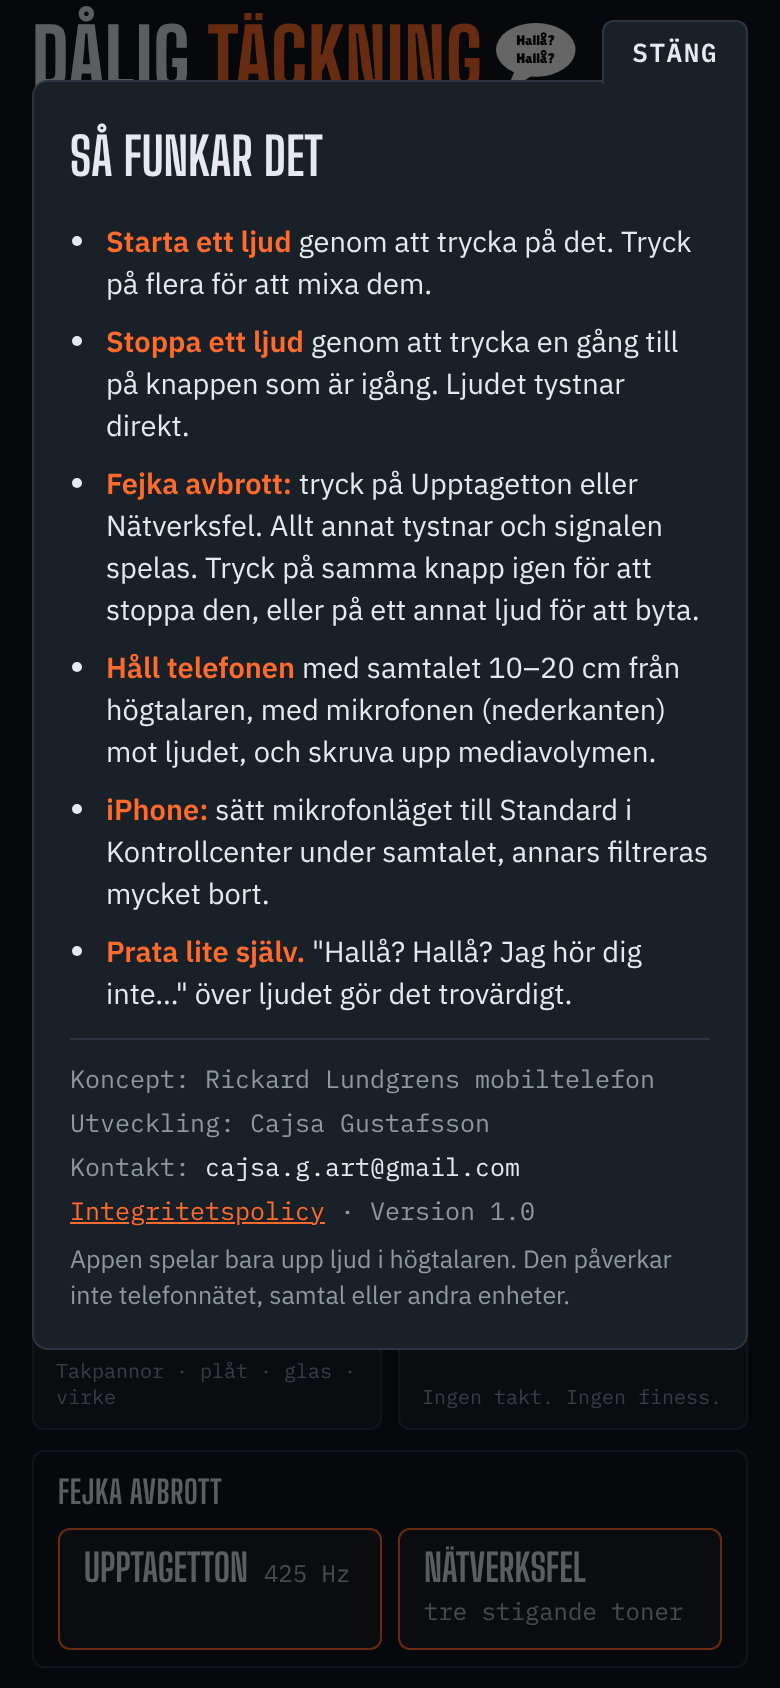
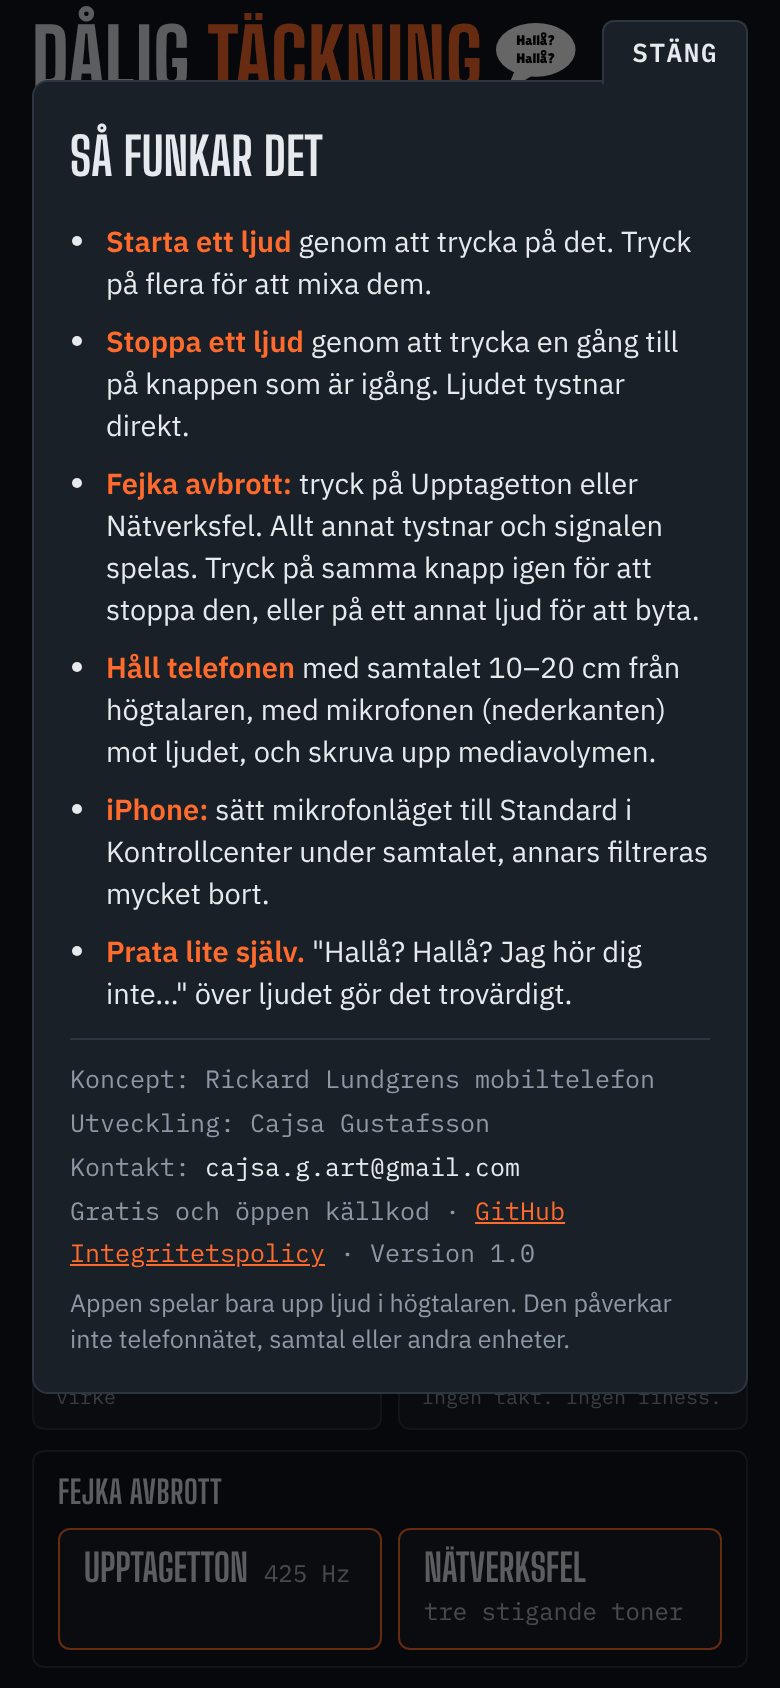
Gratis och öppen källkod: MIT-licens, butikstexter och Om-rutan
Claude-Session: https://claude.ai/code/session_01AwVcDu5zv7prsN5VKHxPky

Changed region(s): [[0.0923, 0.7085, 0.8615, 0.8318]]

diff --git a/index.html b/index.html
@@ -231,6 +231,7 @@ h1{font-size:clamp(56px,18vw,130px);line-height:.85;white-space:nowrap;margin:0}
       <div><span data-i18n="concept">Koncept</span>: <span data-i18n="conceptBy">Rickard Lundgrens mobiltelefon</span></div>
       <div><span data-i18n="dev">Utveckling</span>: Cajsa Gustafsson</div>
       <div><span data-i18n="contact">Kontakt</span>: <span class="sel">cajsa.g.art@gmail.com</span></div>
+      <div><span data-i18n="free">Gratis och öppen källkod</span> · <a href="https://github.com/cajsag73/storsandaren" target="_blank" rel="noopener">GitHub</a></div>
       <div><a href="https://cajsag73.github.io/storsandaren/integritet.html" target="_blank" rel="noopener" data-i18n="privacy">Integritetspolicy</a> · <span data-i18n="version">Version</span> 1.0</div>
       <div class="disclaimer" data-i18n="disclaimer">Appen spelar bara upp ljud i högtalaren. Den påverkar inte telefonnätet, samtal eller andra enheter.</div>
     </div>
@@ -552,9 +553,9 @@ function dropCall(mode,btn){
 }
 
 const I18N={
- sv:{title:'Dålig täckning',eyebrow:'Soundboard för samtal du inte vill ha',t1:'Dålig ',t2:'täckning',vol:'Volym',drop:'Fejka avbrott',busy:'Upptagetton',sit:'Nätverksfel',sitS:'tre stigande toner',bubble1:'Hallå?',bubble2:'Hallå?',about:'Om',aboutTitle:'Så funkar det',close:'Stäng',concept:'Koncept',conceptBy:'Rickard Lundgrens mobiltelefon',dev:'Utveckling',contact:'Kontakt',privacy:'Integritetspolicy',version:'Version',disclaimer:'Appen spelar bara upp ljud i högtalaren. Den påverkar inte telefonnätet, samtal eller andra enheter.',
+ sv:{title:'Dålig täckning',eyebrow:'Soundboard för samtal du inte vill ha',t1:'Dålig ',t2:'täckning',vol:'Volym',drop:'Fejka avbrott',busy:'Upptagetton',sit:'Nätverksfel',sitS:'tre stigande toner',bubble1:'Hallå?',bubble2:'Hallå?',about:'Om',aboutTitle:'Så funkar det',close:'Stäng',concept:'Koncept',conceptBy:'Rickard Lundgrens mobiltelefon',dev:'Utveckling',contact:'Kontakt',privacy:'Integritetspolicy',free:'Gratis och öppen källkod',version:'Version',disclaimer:'Appen spelar bara upp ljud i högtalaren. Den påverkar inte telefonnätet, samtal eller andra enheter.',
    silent:'Tyst',pick:'Välj ett eller flera ljud',onair:'Sänder nu',mixing:n=>`Mixar ${n} ljud`,dropping:'Avbrott',breaking:'Samtalet bryts…',ch:'KANAL',live:'SÄNDER'},
- en:{title:'Bad Line',eyebrow:"Soundboard for calls you don't want",t1:'Bad ',t2:'Line',vol:'Volume',drop:'Fake a dropped call',busy:'Busy tone',sit:'Network error',sitS:'three rising tones',bubble1:'Hello?',bubble2:'Hello?',about:'About',aboutTitle:'How it works',close:'Close',concept:'Concept',conceptBy:"Rickard Lundgren's mobile phone",dev:'Development',contact:'Contact',privacy:'Privacy policy',version:'Version',disclaimer:'The app only plays sound through the speaker. It does not affect the phone network, calls or other devices.',
+ en:{title:'Bad Line',eyebrow:"Soundboard for calls you don't want",t1:'Bad ',t2:'Line',vol:'Volume',drop:'Fake a dropped call',busy:'Busy tone',sit:'Network error',sitS:'three rising tones',bubble1:'Hello?',bubble2:'Hello?',about:'About',aboutTitle:'How it works',close:'Close',concept:'Concept',conceptBy:"Rickard Lundgren's mobile phone",dev:'Development',contact:'Contact',privacy:'Privacy policy',free:'Free and open source',version:'Version',disclaimer:'The app only plays sound through the speaker. It does not affect the phone network, calls or other devices.',
    silent:'Silent',pick:'Pick one or more sounds',onair:'On air',mixing:n=>`Mixing ${n} sounds`,dropping:'Dropping',breaking:'Call breaking up…',ch:'CHANNEL',live:'ON AIR'}
 };
 const SCENE_EN={"tackning": {"name": "Choppy line", "what": "The line breaks up into robot mush, digital bursts and sudden silence.", "spec": "Voice codec in 20 ms frames"}, "tag": {"name": "Train crash", "what": "A train crashes at full speed. Cars crumple, sheet metal folds and steel tears apart.", "spec": "4,000 tonnes of metal at 120 km/h"}, "rymd": {"name": "Space station", "what": "Digital interference and a shredded alien voice talking in the background.", "spec": "TDMA buzz 217 Hz · 3-bit voice"}, "metall": {"name": "Death metal", "what": "Violent attacks of distortion, bass blasts and screams that come and go.", "spec": "Tempo: none · Mercy: none"}, "storm": {"name": "Hailstorm", "what": "Things get smashed and torn apart at full force.", "spec": "Roof tiles · sheet metal · glass · timber"}, "bygg": {"name": "Construction site", "what": "Jackhammer, power drill, violent hammer blows and metal grinding on metal. Completely irregular.", "spec": "No rhythm. No finesse."}};

diff --git a/butik/BUTIKSTEXTER.md b/butik/BUTIKSTEXTER.md
@@ -11,7 +11,7 @@ Dålig täckning
 
 **Kort beskrivning** (max 80 tecken)
 ```
-Spela störningsljud under samtal – hackig linje, tågkrasch, hagel och mer.
+Gratis störningsljud under samtal – hackig linje, tågkrasch, hagel och mer.
 ```
 
 **Fullständig beskrivning** (max 4000 tecken)
@@ -32,7 +32,10 @@ Fejka avbrott: avsluta med upptagetton eller nätverksfelston, och lägg på.
 
 Så använder du den: håll telefonen med samtalet nära högtalaren på den enhet där Dålig täckning spelar, eller sätt samtalet på högtalare. Ljudet är förstärkt för att höras tydligt i en annan telefon.
 
+• Helt gratis
+• Öppen källkod: https://github.com/cajsag73/storsandaren
 • Ingen reklam
+• Inga köp i appen
 • Inget konto
 • Samlar inte in några uppgifter
 • Fungerar utan internet
@@ -50,7 +53,7 @@ Bad Line: Fake Bad Signal
 
 **Short description** (max 80 characters)
 ```
-Play noise during calls – bad reception, train crash, hailstorm and more.
+Free noise for calls – bad reception, train crash, hailstorm and more.
 ```
 
 **Full description** (max 4000 characters)
@@ -71,7 +74,10 @@ Fake a dropped call: finish with a busy tone or a network error tone, then hang 
 
 How to use it: hold the phone with the call close to the speaker of the device playing Bad Line, or put the call on speaker. The sound is boosted to come through clearly on another phone.
 
+• Completely free
+• Open source: https://github.com/cajsag73/storsandaren
 • No ads
+• No in-app purchases
 • No account
 • Collects no data
 • Works offline
@@ -86,6 +92,7 @@ Bad Line is a humor app. It only plays sound through the speaker and does not af
 |---|---|
 | Kategori | Underhållning |
 | Taggar | Humor, Soundboard |
+| Licens | MIT (öppen källkod) |
 | Kontakt-e-post | cajsa.g.art@gmail.com |
 | Integritetspolicy | https://cajsag73.github.io/storsandaren/integritet.html |
 | Pris | Gratis |

diff --git a/README.md b/README.md
@@ -22,3 +22,6 @@ Se [PUBLICERA.md](PUBLICERA.md) för steg för steg till Google Play. Butikstext
 
 ## Använd
 Öppna `index.html` i mobilens webbläsare och håll telefonen med samtalet nära högtalaren. Ljud kan bara starta efter ett tryck.
+
+## Licens
+Appen är gratis och öppen källkod under [MIT-licensen](LICENSE). Typsnitten har SIL Open Font License, se `licenser/`.
